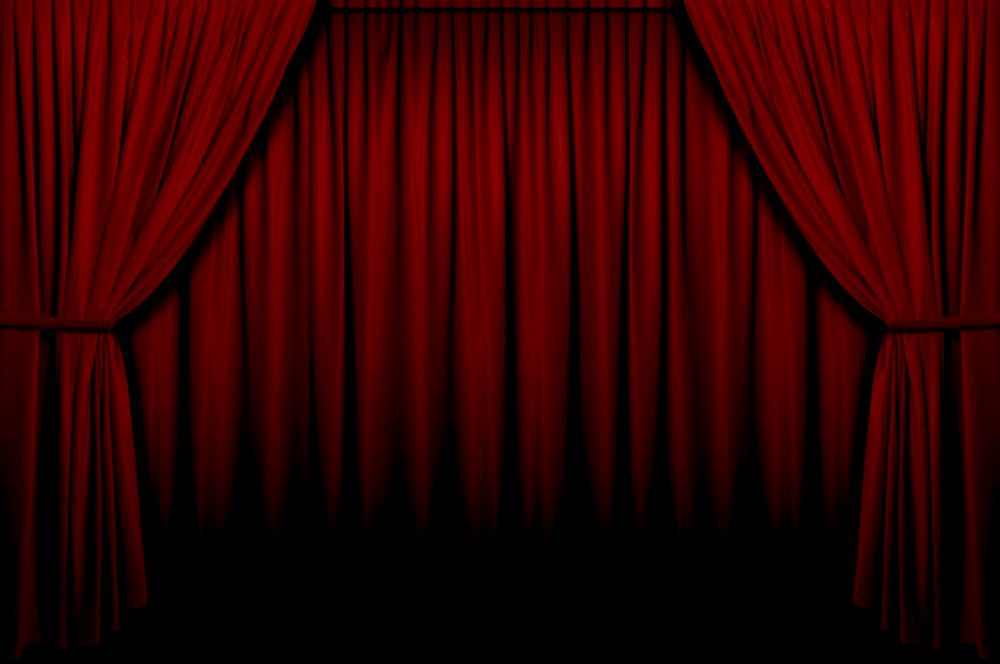
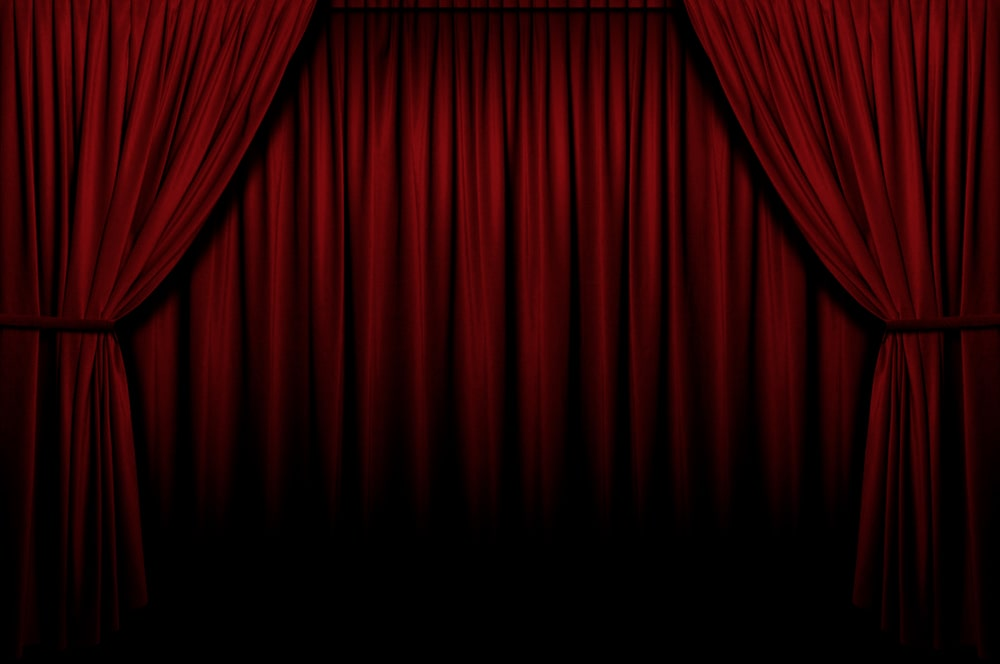
Fix: Polish embedded player  (#58)
* Handle yarn cache properly in Github Actions workflow

* Use higher res curtains. Update iframe defaults

diff --git a/web/src/components/ShareButton.tsx b/web/src/components/ShareButton.tsx
@@ -35,7 +35,7 @@ const ShareButton = ({ urlSlug = '' }: Props) => {
   const [ShareDialog, setShareDialogIsVisible] = useDialog();
 
   const urlToShare = `${window.location.origin}/${urlSlug}`;
-  const embedCode = `<iframe width="800" height="450" src="${window.location.origin}/embed/${urlSlug}"></iframe>`;
+  const embedCode = `<iframe width="100%" height="400" src="${window.location.origin}/embed/${urlSlug}"></iframe>`;
 
   return (
     <>
